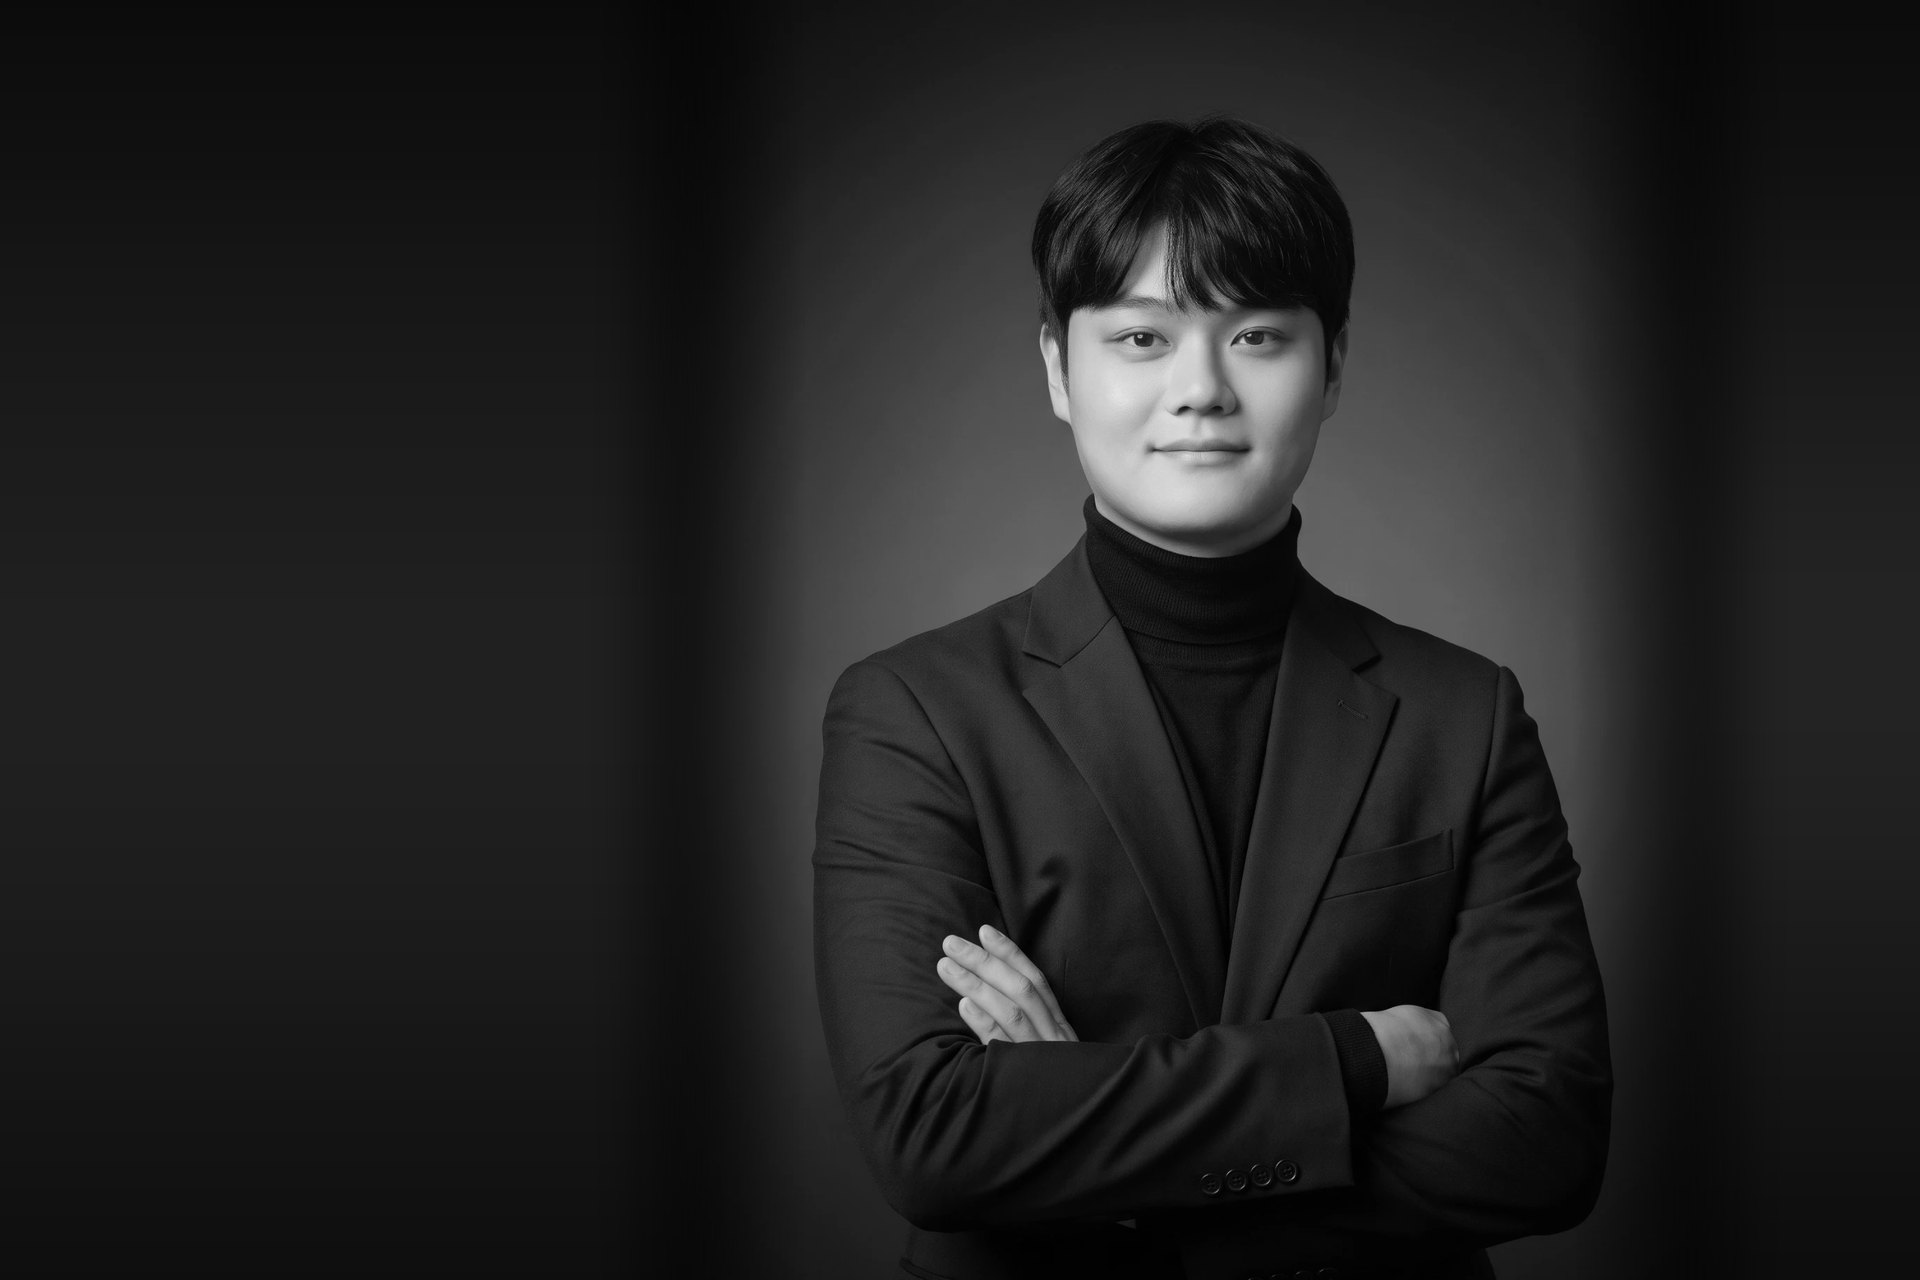
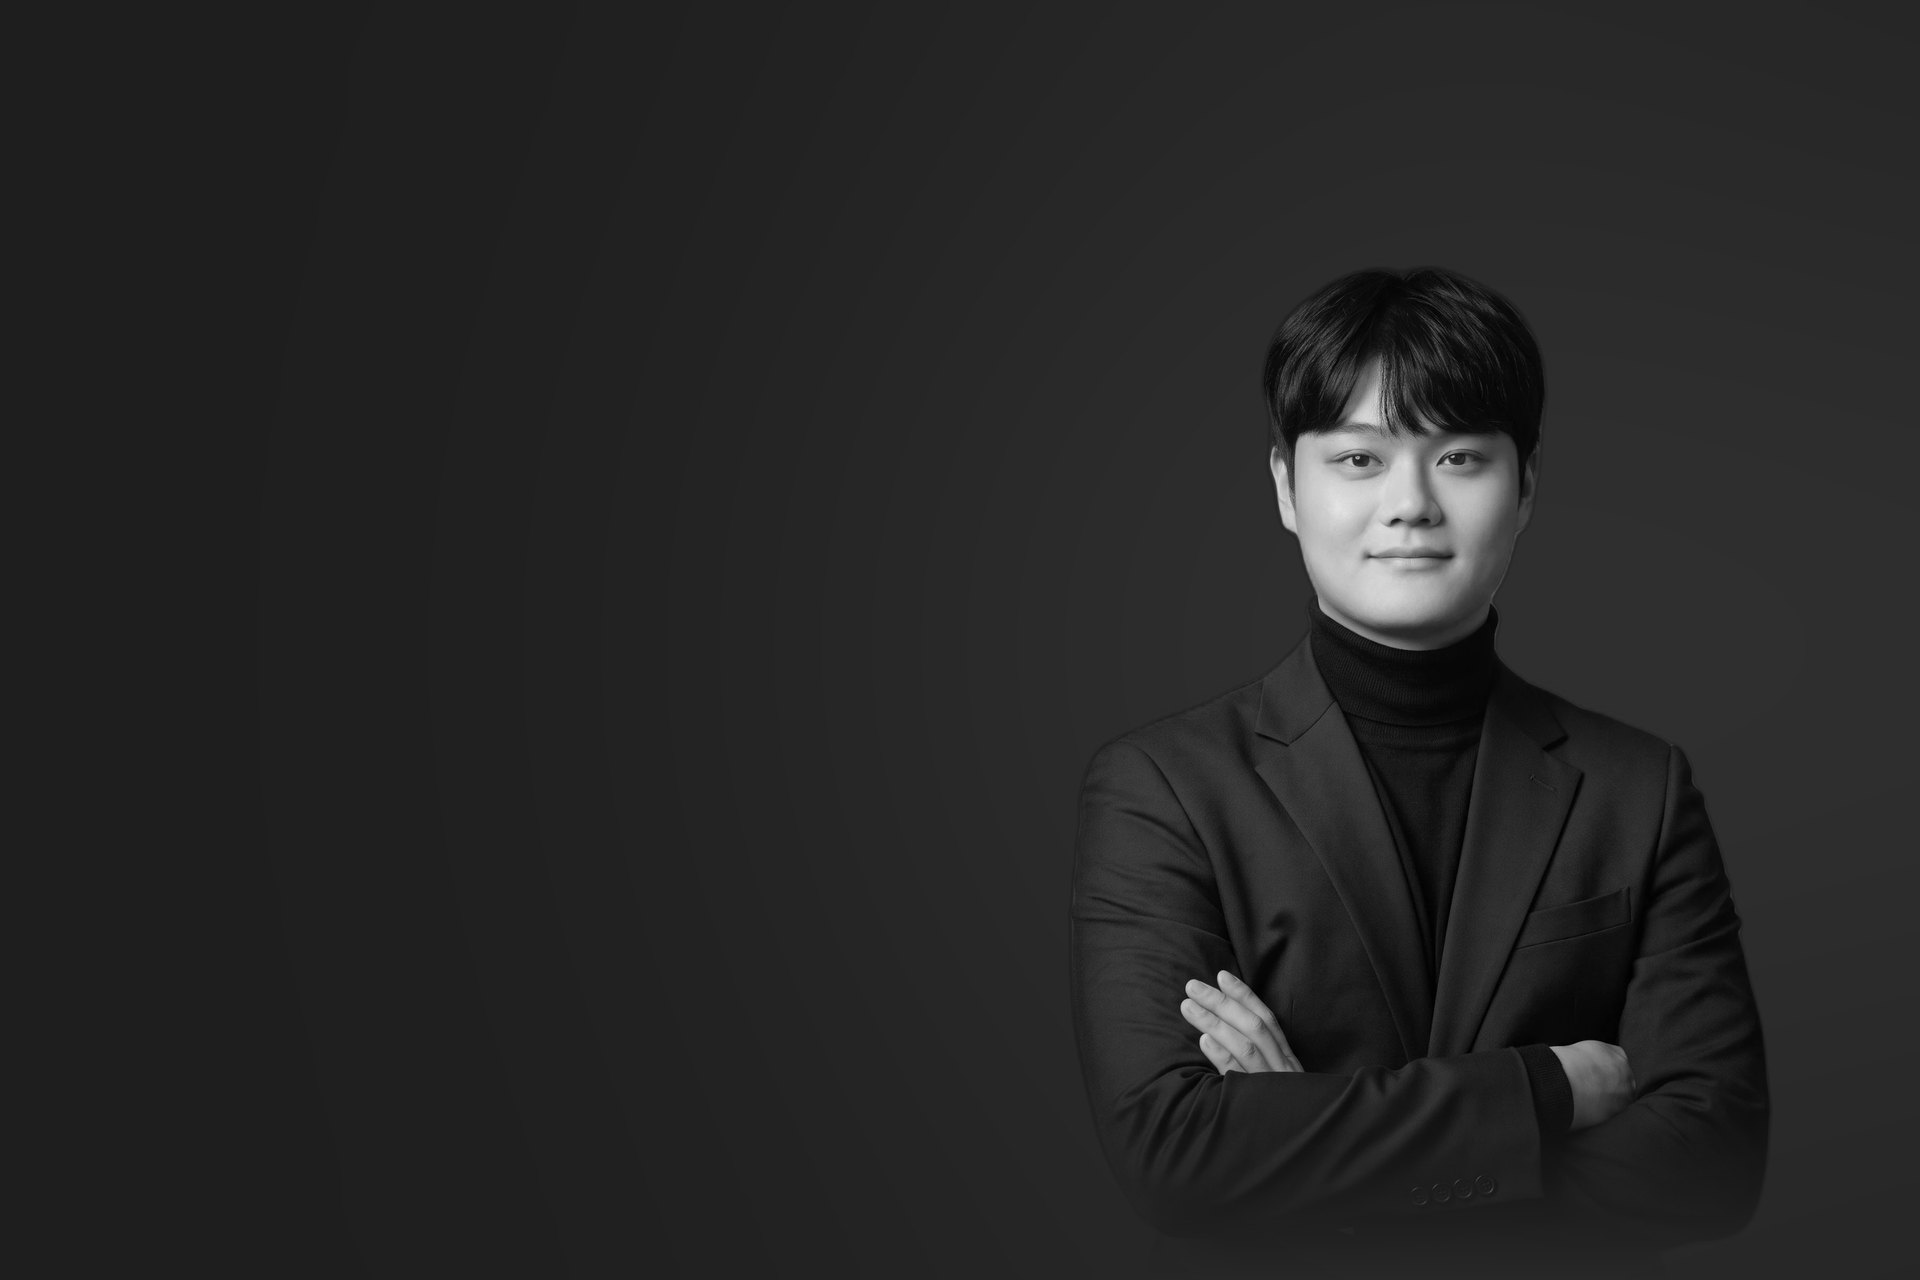
배경 사진: 뒷배경을 지우고 인물을 작게 한쪽에, 내용이 잘 보이게
- 사진에서 인물만 따내 짙은 바탕 위에 화면 높이의 70~86% 크기로, 내용이 없는 쪽에 둠 (아래쪽은 바탕으로 사라지게, 뒤에 옅은 조명)
- 첫 화면은 왼쪽(반전), About·Timeline·Skills는 오른쪽, Contact는 가운데 오른쪽
- Works는 카드가 화면을 채워 인물 없이 은은한 조명만

Claude-Session: https://claude.ai/code/session_01NQjpysCo935ZkNfFeQxxpp

diff --git a/index.html b/index.html
@@ -17,8 +17,8 @@
   <link rel="stylesheet" href="https://cdn.jsdelivr.net/gh/orioncactus/pretendard@v1.3.9/dist/web/variable/pretendardvariable-dynamic-subset.min.css" media="print" onload="this.media='all'" />
   <link rel="stylesheet" href="https://fonts.googleapis.com/css2?family=Inter+Tight:wght@500;700;800;900&display=swap" media="print" onload="this.media='all'" />
   <noscript><link rel="stylesheet" href="https://cdn.jsdelivr.net/gh/orioncactus/pretendard@v1.3.9/dist/web/variable/pretendardvariable-dynamic-subset.min.css" /><link rel="stylesheet" href="https://fonts.googleapis.com/css2?family=Inter+Tight:wght@500;700;800;900&display=swap" /></noscript>
-  <link rel="stylesheet" href="css/style.css?v=202611100240" />
-  <link rel="stylesheet" href="css/theme-editorial.css?v=202611100240" />
+  <link rel="stylesheet" href="css/style.css?v=202611100301" />
+  <link rel="stylesheet" href="css/theme-editorial.css?v=202611100301" />
 </head>
 <body data-section="hero">
   <!-- 모핑 캔버스 (Mono·Editorial: 화면 전체 배경 / Pixel: 각 섹션의 이미지 박스 안으로 이동) -->
@@ -234,7 +234,7 @@
     </div>
   </div>
 
-  <script src="js/icons.js?v=202611100240"></script>
-  <script type="module" src="js/main.js?v=202611100240"></script>
+  <script src="js/icons.js?v=202611100301"></script>
+  <script type="module" src="js/main.js?v=202611100301"></script>
 </body>
 </html>

diff --git a/studio/index.html b/studio/index.html
@@ -6,7 +6,7 @@
   <meta name="robots" content="noindex, nofollow" />
   <title>Studio — 관리자</title>
   <link rel="stylesheet" href="https://cdn.jsdelivr.net/gh/orioncactus/pretendard@v1.3.9/dist/web/variable/pretendardvariable-dynamic-subset.min.css" media="print" onload="this.media='all'" />
-  <link rel="stylesheet" href="admin.css?v=202611100240" />
+  <link rel="stylesheet" href="admin.css?v=202611100301" />
 </head>
 <body>
   <!-- GitHub 연결 (로그인) -->
@@ -488,9 +488,9 @@
   </dialog>
 
   <script src="../vendor/pdfjs/pdf.min.js"></script>
-  <script src="../js/icons.js?v=202611100240"></script>
-  <script src="github.js?v=202611100240"></script>
-  <script src="admin.js?v=202611100240"></script>
-  <script src="stats.js?v=202611100240"></script>
+  <script src="../js/icons.js?v=202611100301"></script>
+  <script src="github.js?v=202611100301"></script>
+  <script src="admin.js?v=202611100301"></script>
+  <script src="stats.js?v=202611100301"></script>
 </body>
 </html>

diff --git a/js/main.js b/js/main.js
@@ -1,9 +1,9 @@
-import { MorphStage, FallbackStage } from './morph.js?v=202611100240';
-import { PdfViewer } from './pdf-viewer.js?v=202611100240';
-import { renderSkillChart } from './skills.js?v=202611100240';
-import { renderTimeline, timelineItems } from './timeline.js?v=202611100240';
-import { initWorks } from './works.js?v=202611100240';
-import { initAnalytics, cleanTag } from './analytics.js?v=202611100240';
+import { MorphStage, FallbackStage } from './morph.js?v=202611100301';
+import { PdfViewer } from './pdf-viewer.js?v=202611100301';
+import { renderSkillChart } from './skills.js?v=202611100301';
+import { renderTimeline, timelineItems } from './timeline.js?v=202611100301';
+import { initWorks } from './works.js?v=202611100301';
+import { initAnalytics, cleanTag } from './analytics.js?v=202611100301';
 
 // 관리자 대시보드의 클릭 히트맵 미리보기용 (?embed): 기록·전환 버튼 없이 화면만
 const EMBED = new URLSearchParams(location.search).has('embed');
